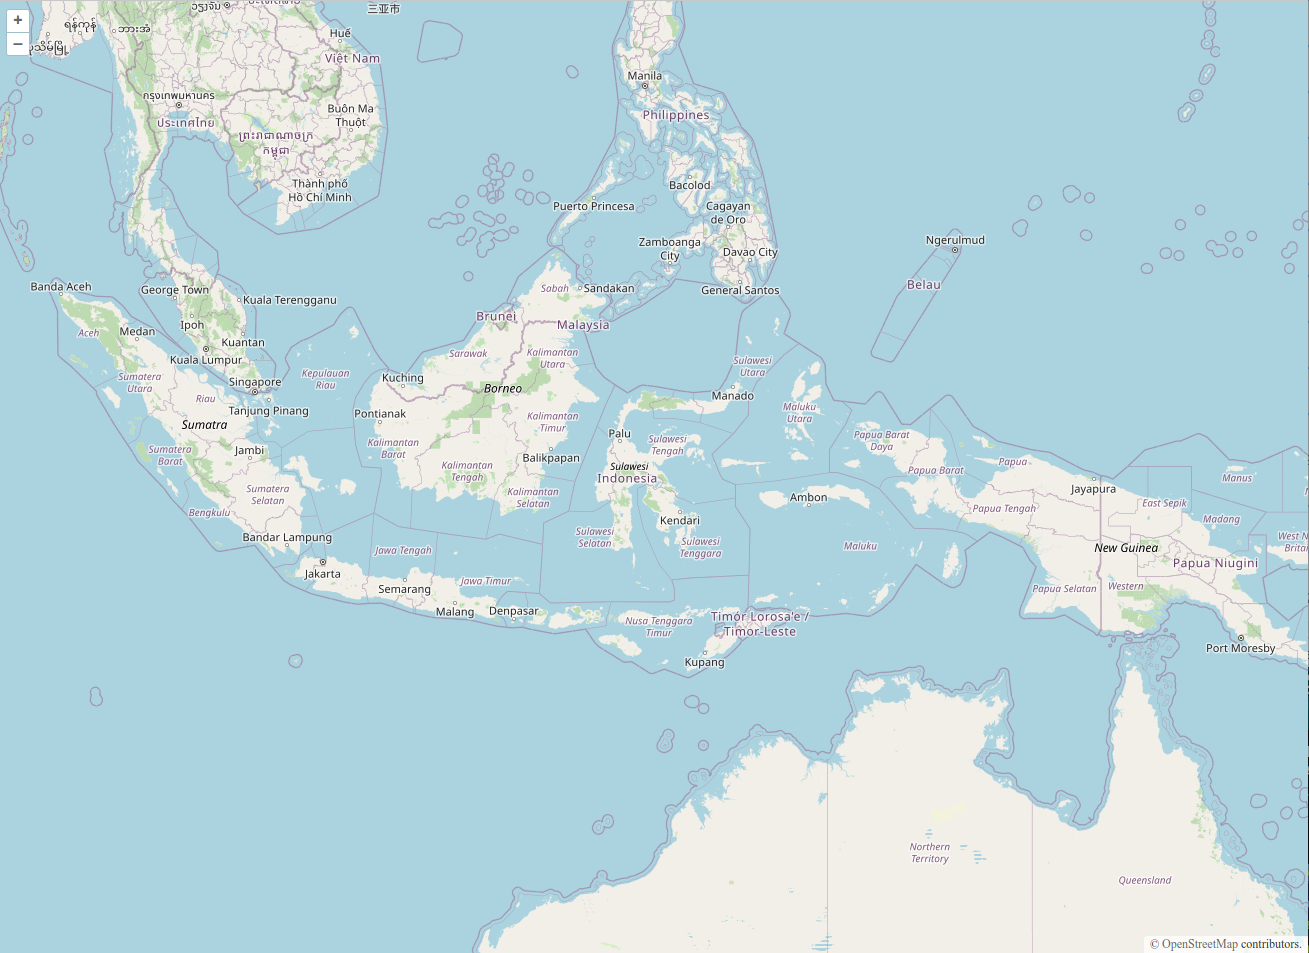
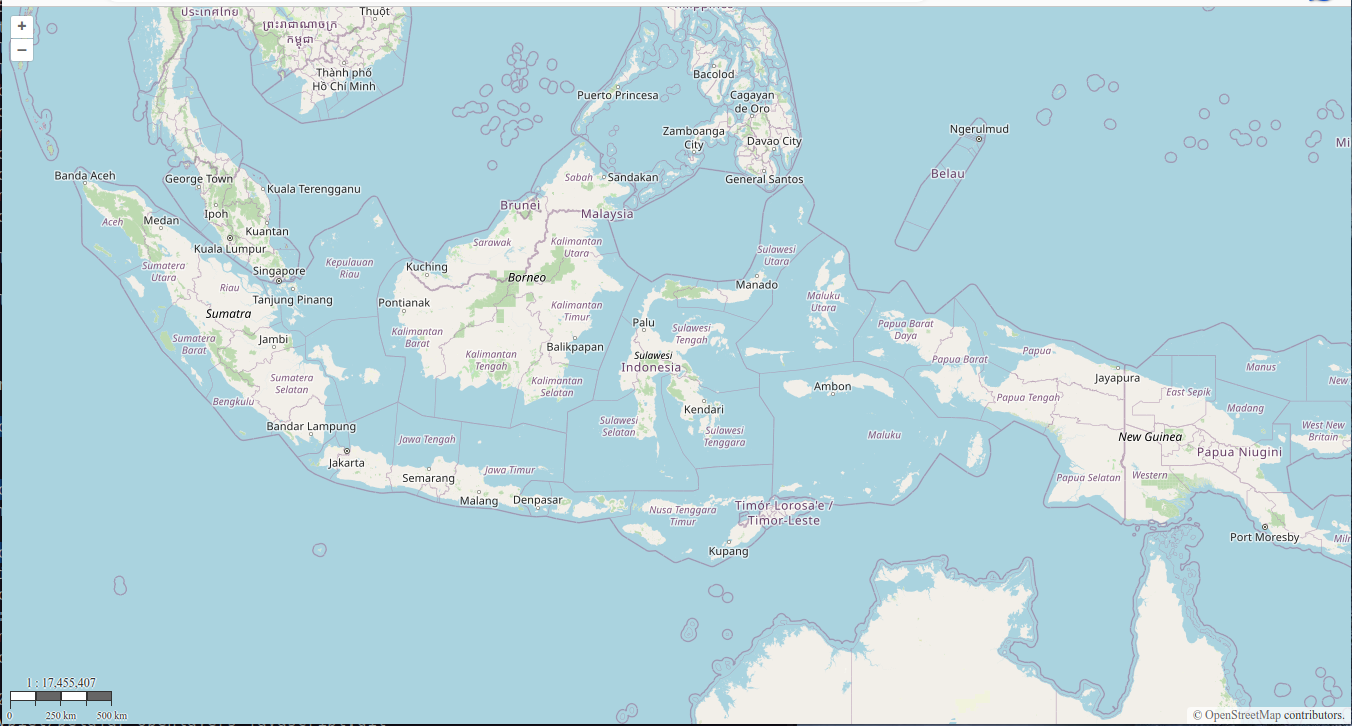
add scale-bar

diff --git a/main.js b/main.js
@@ -1,5 +1,6 @@
 import Map from "ol/Map";
 import View from "ol/View";
+import ScaleLine from "ol/control/ScaleLine";
 import TileLayer from "ol/layer/Tile";
 import { fromLonLat } from 'ol/proj';
 import OSM from "ol/source/OSM";
@@ -23,3 +24,10 @@ const osmTile = new TileLayer({
 });
 
 map.addLayer(osmTile);
+
+const scaleControl = new ScaleLine({
+  bar: true,
+  text: true,
+});
+
+map.addControl(scaleControl);
